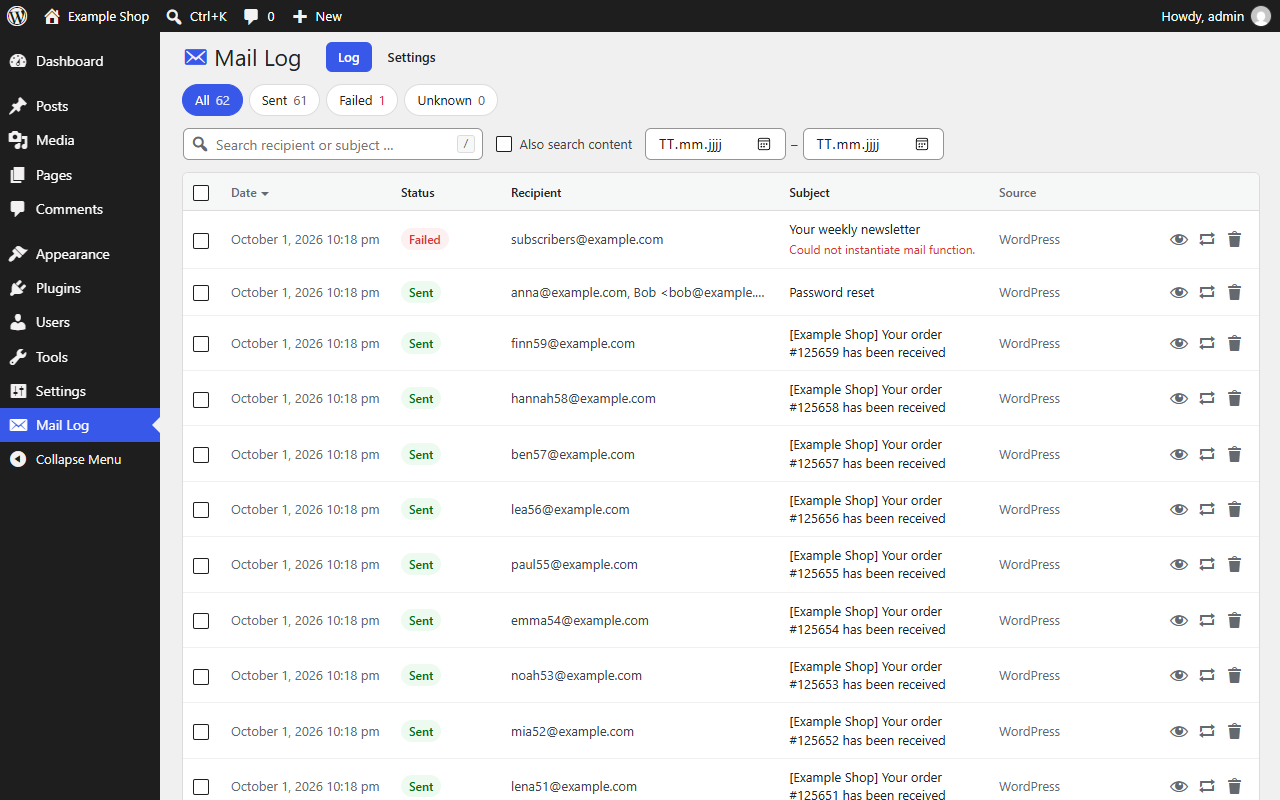
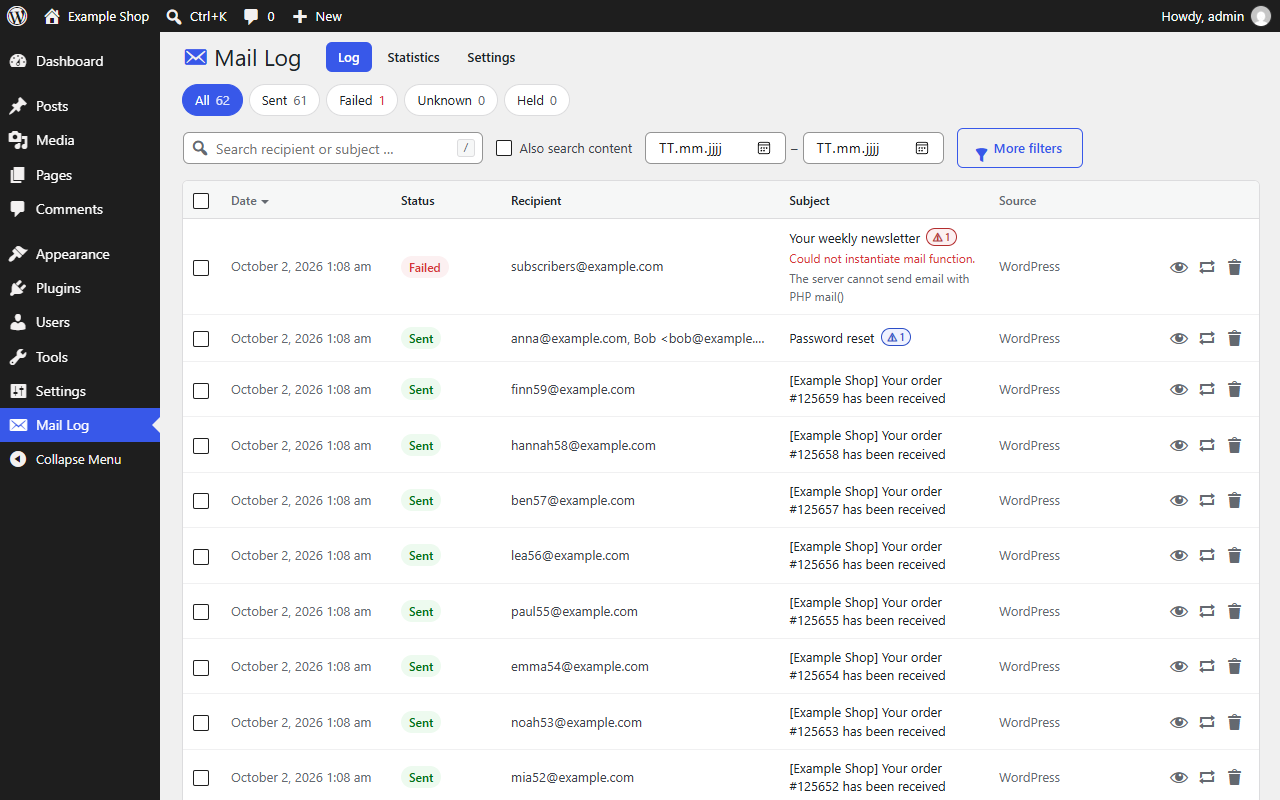
Integrate modules: cross-module fixes, readme, directory screenshots
- Core resend refuses anonymised entries (409) – the UI hid the button,
  the REST route did not; covered by the workflow integration test.
- Statistics: top-sender bars link to the log's new source filter.
- readme.txt: all module features, privacy note for opt-in webhooks,
  FAQ, six screenshot captions.
- Directory screenshots: log with note badges, preview, trace of a real
  web request (lost-password form), notes + explained error, statistics
  with 30 days of on-demand history (tests/e2e/screenshot-seed.php, never
  used by the specs), settings.

diff --git a/mailspur-email-log/assets/insights.js b/mailspur-email-log/assets/insights.js
@@ -296,7 +296,7 @@
 		renderVolume( buckets.list, weekly );
 		renderRate( buckets.list, weekly );
 		renderHeatmap();
-		renderBars( el.sources, data.top.sources, null );
+		renderBars( el.sources, data.top.sources, 'key', 'source' );
 		renderBars( el.domains, data.top.domains, 'search' );
 		renderBars( el.subjects, data.top.subjects, 'search' );
 		el.sample.hidden = ! data.sample.limited;
@@ -844,7 +844,11 @@
 
 	/* Top lists: horizontal bars (HTML) ------------------------------------- */
 
-	function renderBars( list, items, linkKey ) {
+	/**
+	 * @param {string|null} linkKey Item field that filters the log, e.g. 'search'.
+	 * @param {string}      param   Log URL parameter it goes into ('s' search, 'source' sender filter).
+	 */
+	function renderBars( list, items, linkKey, param = 's' ) {
 		if ( ! items.length ) {
 			list.replaceChildren( node( 'li', 'msi-empty', t.noData ) );
 			return;
@@ -857,7 +861,7 @@
 				const label = item.label || t.noSubject;
 				const row = linkKey && item[ linkKey ] ? node( 'a', 'msi-bar' ) : node( 'div', 'msi-bar' );
 				if ( 'A' === row.tagName ) {
-					row.href = logUrl( { s: item[ linkKey ], after: range.from, before: range.to } );
+					row.href = logUrl( { [ param ]: item[ linkKey ], after: range.from, before: range.to } );
 					row.setAttribute( 'aria-label', fmt( t.openInLog, label ) + ': ' + num( item.count ) );
 				}
 				const head = node( 'span', 'msi-bar-head' );

diff --git a/tests/e2e/insights.spec.js b/tests/e2e/insights.spec.js
@@ -50,6 +50,8 @@ test('statistics tab shows KPIs, charts and top lists', async ({ page }) => {
 	await expect(page.locator('#msi-subjects li').first().locator('.msi-bar-value')).toHaveText('60');
 	await expect(page.locator('#msi-domains li').first()).toContainText('example.com');
 	await expect(page.locator('#msi-sources li').first()).toContainText('WordPress');
+	// Source bars open the log filtered by that sender (source filter of the log).
+	await expect(page.locator('#msi-sources li a').first()).toHaveAttribute('href', /[?&]source=core(&|$)/);
 	// The XSS subject is plain text.
 	await expect(page.locator('#msi-subjects img')).toHaveCount(0);
 

diff --git a/tests/e2e/screenshot-seed.php b/tests/e2e/screenshot-seed.php
@@ -1,0 +1,106 @@
+<?php
+/**
+ * Must-use plugin for scripts/wporg-assets.mjs: wp-admin/?mailspur-e2e-seed=history inserts 30 days of
+ * plausible shop traffic (orders following a weekday pattern, contact form mails, password resets, a weekly
+ * newsletter, a few failures) so the statistics screenshot shows real-looking charts. Deterministic (seeded).
+ *
+ * phpcs:disable WordPress.NamingConventions.PrefixAllGlobals, WordPress.Security.NonceVerification.Recommended, WordPress.WP.AlternativeFunctions.rand_mt_rand, WordPress.WP.AlternativeFunctions.rand_seeding_mt_srand
+ *
+ * @package Mailspur
+ */
+
+use Mailspur\Repository;
+
+add_action(
+	'admin_init',
+	static function () {
+		if ( ! isset( $_GET['mailspur-e2e-seed'] ) || 'history' !== $_GET['mailspur-e2e-seed'] || ! current_user_can( 'manage_options' ) || get_option( 'mailspur_e2e_history_seeded' ) ) {
+			return;
+		}
+		mt_srand( 42 );
+		$names  = array( 'jan', 'lena', 'mia', 'noah', 'emma', 'paul', 'lea', 'ben', 'hannah', 'finn', 'sofia', 'elias' );
+		$hosts  = array( 'gmail.com', 'gmx.de', 'web.de', 'outlook.com', 't-online.de', 'icloud.com', 'yahoo.com' );
+		$rows   = array();
+		$base   = array(
+			'status'       => Repository::STATUS_SENT,
+			'message'      => '<p>…</p>',
+			'headers'      => 'Content-Type: text/html; charset=UTF-8',
+			'attachments'  => '',
+			'content_type' => 'text/html',
+			'sender'       => 'Example Shop <shop@example.com>',
+			'error'        => '',
+			'meta'         => '',
+			'notes'        => 0,
+			'size'         => 4200,
+			'raw'          => '',
+		);
+		$at     = static function ( int $days_ago, int $hour ) {
+			return gmdate( 'Y-m-d H:i:s', strtotime( gmdate( 'Y-m-d', time() - $days_ago * DAY_IN_SECONDS ) . ' 00:00:00 UTC' ) + $hour * HOUR_IN_SECONDS + mt_rand( 0, 3599 ) );
+		};
+		$person = static function () use ( $names, $hosts ) {
+			return $names[ mt_rand( 0, count( $names ) - 1 ) ] . mt_rand( 1, 99 ) . '@' . $hosts[ mt_rand( 0, count( $hosts ) - 1 ) ];
+		};
+
+		for ( $day = 30; $day >= 1; $day-- ) {
+			$weekday = (int) gmdate( 'N', time() - $day * DAY_IN_SECONDS );
+			$orders  = ( $weekday >= 6 ? 9 : 16 ) + mt_rand( 0, 8 ) + ( $day < 10 ? 4 : 0 );
+			for ( $i = 0; $i < $orders; $i++ ) {
+				$hour   = array( 7, 9, 10, 11, 12, 13, 14, 17, 18, 19, 20, 21 )[ mt_rand( 0, 11 ) ];
+				$failed = 0 === mt_rand( 0, 45 );
+				$rows[] = array_merge(
+					$base,
+					array(
+						'created_at' => $at( $day, $hour ),
+						'recipients' => $person(),
+						'subject'    => sprintf( '[Example Shop] Your order #%d has been received', 120000 + $day * 40 + $i ),
+						'source'     => 'plugin:woocommerce',
+						'status'     => $failed ? Repository::STATUS_FAILED : Repository::STATUS_SENT,
+						'error'      => $failed ? 'SMTP Error: Could not authenticate.' : '',
+					)
+				);
+			}
+			for ( $i = 0, $n = mt_rand( 1, 4 ); $i < $n; $i++ ) {
+				$rows[] = array_merge(
+					$base,
+					array(
+						'created_at'   => $at( $day, mt_rand( 8, 22 ) ),
+						'recipients'   => 'shop@example.com',
+						'subject'      => 'New message from the contact form',
+						'source'       => 'plugin:contact-form-7',
+						'content_type' => 'text/plain',
+					)
+				);
+			}
+			if ( 0 === mt_rand( 0, 2 ) ) {
+				$rows[] = array_merge(
+					$base,
+					array(
+						'created_at' => $at( $day, mt_rand( 6, 23 ) ),
+						'recipients' => $person(),
+						'subject'    => '[Example Shop] Password Reset',
+						'source'     => 'core',
+					)
+				);
+			}
+			if ( 2 === $weekday ) { // Tuesday newsletter.
+				for ( $i = 0; $i < 40; $i++ ) {
+					$rows[] = array_merge(
+						$base,
+						array(
+							'created_at' => $at( $day, 10 ),
+							'recipients' => $person(),
+							'subject'    => 'Example Shop – new coaching slots this week',
+							'source'     => 'plugin:mailpoet',
+						)
+					);
+				}
+			}
+		}
+
+		$repository = new Repository();
+		foreach ( array_chunk( $rows, 100 ) as $chunk ) {
+			$repository->insert_many( $chunk );
+		}
+		update_option( 'mailspur_e2e_history_seeded', count( $rows ), false );
+	}
+);

diff --git a/mailspur-email-log/languages/mailspur-email-log-de_DE.l10n.php b/mailspur-email-log/languages/mailspur-email-log-de_DE.l10n.php
@@ -522,6 +522,7 @@ return array(
 		'The statistics require JavaScript.' => 'Die Statistik benötigt JavaScript.',
 		'The user name is usually the full email address. Watch for spaces copied along with the password.' => 'Der Benutzername ist meist die vollständige E-Mail-Adresse. Achte auf mitkopierte Leerzeichen beim Passwort.',
 		'The webhook URL was removed: only valid https URLs are allowed.' => 'Die Webhook-URL wurde entfernt: Nur gültige https-URLs sind erlaubt.',
+		'This entry was anonymised; its content can no longer be sent.' => 'Dieser Eintrag wurde anonymisiert; sein Inhalt kann nicht mehr gesendet werden.',
 		'This import is already running in another tab.' => 'Dieser Import läuft bereits in einem anderen Tab.',
 		'This is a test alert. Your alert channels work.' => 'Dies ist eine Test-Benachrichtigung. Deine Benachrichtigungskanäle funktionieren.',
 		'This production site sent a link to a local or test address. Recipients cannot open it.' => 'Diese Live-Website hat einen Link auf eine lokale oder Test-Adresse versendet. Empfänger können ihn nicht öffnen.',

diff --git a/tests/e2e/seed.d/screenshots.php b/tests/e2e/seed.d/screenshots.php
@@ -1,0 +1,13 @@
+<?php
+/**
+ * Installs the must-use plugin behind scripts/wporg-assets.mjs: wp-admin/?mailspur-e2e-seed=history adds
+ * 30 days of realistic history for the statistics screenshot. Only on demand, so the fixed counts of the
+ * browser specs stay untouched.
+ *
+ * phpcs:disable WordPress.WP.AlternativeFunctions
+ *
+ * @package Mailspur
+ */
+
+wp_mkdir_p( WPMU_PLUGIN_DIR );
+file_put_contents( WPMU_PLUGIN_DIR . '/mailspur-e2e-screenshots.php', "<?php\nrequire '/e2e/screenshot-seed.php';\n" );

diff --git a/mailspur-email-log/src/Rest.php b/mailspur-email-log/src/Rest.php
@@ -264,6 +264,10 @@ final class Rest {
 		if ( ! $row ) {
 			return $this->not_found();
 		}
+		// Anonymised entries have no content left – resending would send an empty mail.
+		if ( ! empty( self::decode_meta( (string) ( $row['meta'] ?? '' ) )['anonymised'] ) ) {
+			return new WP_Error( 'mailspur_anonymised', __( 'This entry was anonymised; its content can no longer be sent.', 'mailspur-email-log' ), array( 'status' => 409 ) );
+		}
 
 		$files   = array();
 		$missing = array();

diff --git a/tests/e2e/features/workflow.php b/tests/e2e/features/workflow.php
@@ -358,6 +358,8 @@ try {
 	} catch ( RuntimeException $e ) {
 		wf_check( true, 'anonymised entries cannot be resent' );
 	}
+	$rest_resend = rest_do_request( new WP_REST_Request( 'POST', '/mailspur-email-log/v1/mails/' . $old . '/resend' ) );
+	wf_check( 409 === $rest_resend->get_status(), 'core REST resend refuses anonymised entries', $rest_resend->get_data() );
 
 	// Imported entries older than the limit are stored anonymised right away.
 	$legacy   = array(
